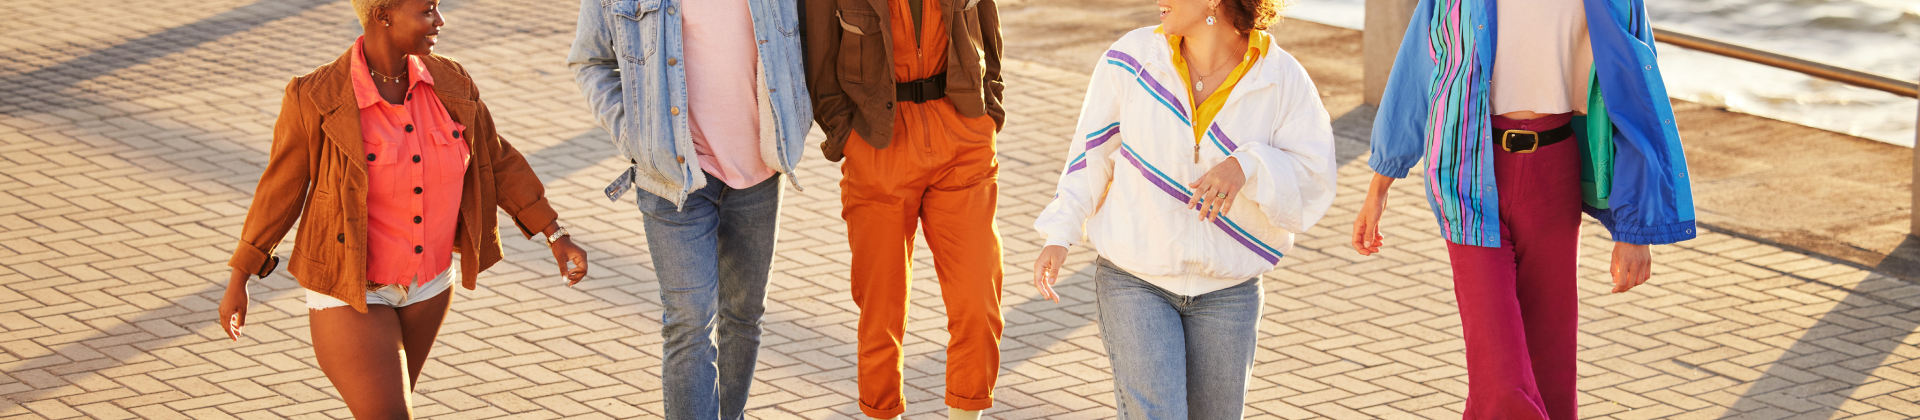
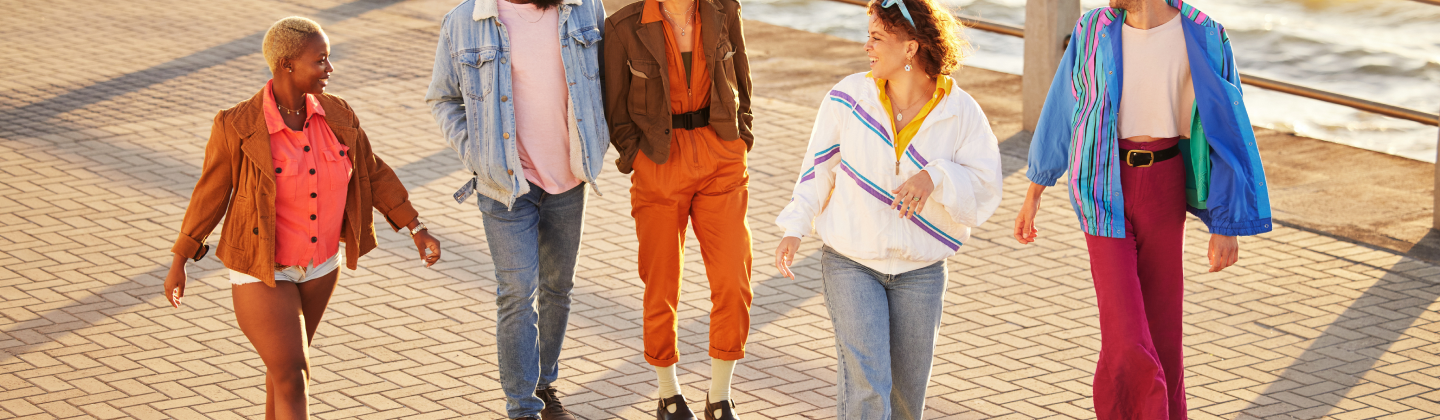
Update Mainpage component: adjust header image section height for better responsiveness

diff --git a/src/components/Mainpage.jsx b/src/components/Mainpage.jsx
@@ -9,9 +9,9 @@ const Mainpage = () => {
     <>
       <div className="w-full h-auto relative bg-white">
         {/* Header Image Section */}
-        <div className="w-full h-[420px] lg:h-[600px] relative">
+        <div className="w-full h-[420px] lg:h-full relative">
           <img
-            className="w-full h-full object-cover"
+            className="w-full h-full object-cover "
             src={headerPicture}
             alt="Header Image"
           />
